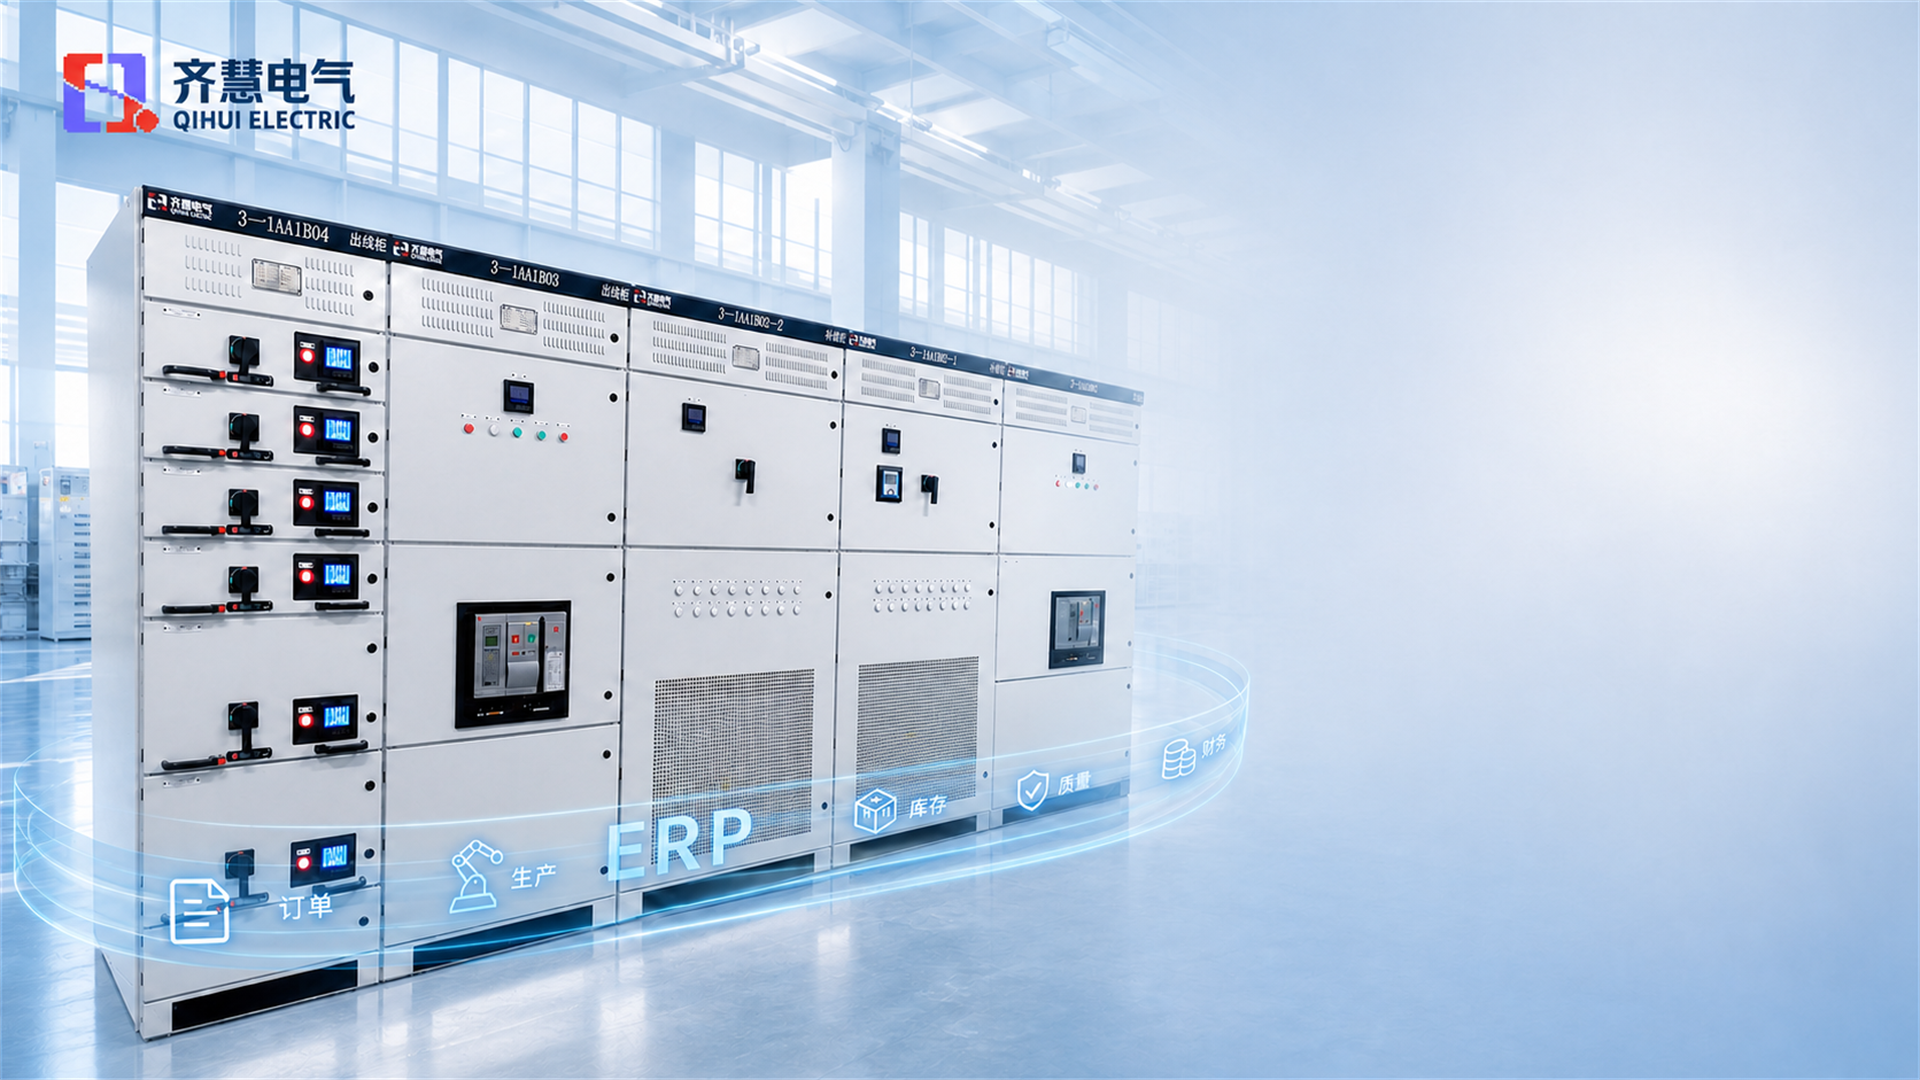
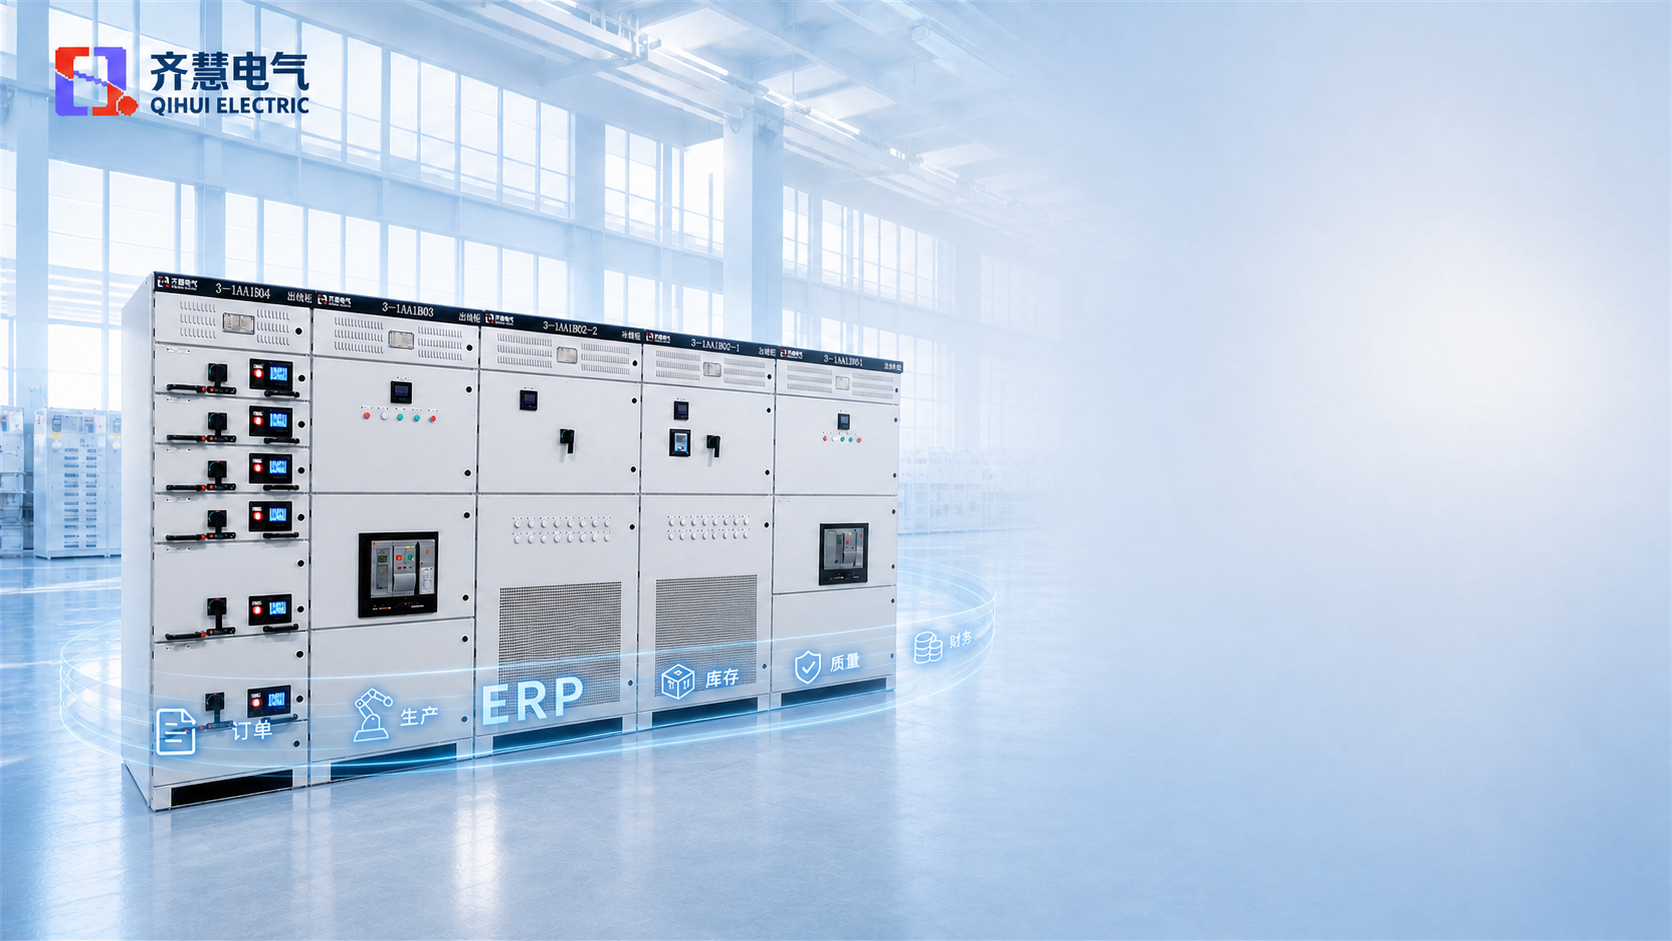
定稿登录页背景与铺满适配

Changed region(s): [[0.0, 0.1541, 0.6531, 1.0], [0.0311, 0.0308, 0.1866, 0.1233]]

diff --git a/apps/web/src/modules/auth/LoginView.spec.ts b/apps/web/src/modules/auth/LoginView.spec.ts
@@ -68,13 +68,14 @@ describe('登录页', () => {
     expect(wrapper.find('[data-test="login-submit"]').exists()).toBe(true)
   })
 
-  it('登录背景完整可见且桌面登录框右对齐并保留安全间距', () => {
+  it('登录背景使用最终原图 cover 铺满且桌面登录框右对齐并保留安全间距', () => {
     const pageRule = getCssRule('.login-page')
     const panelRule = getCssRule('.login-panel')
 
     expect(pageRule).toContain('background-position: left center, center center;')
-    expect(pageRule).toContain('background-size: contain, cover;')
-    expect(pageRule).not.toContain('background-size: cover;')
+    expect(pageRule).toContain('background-size: cover, cover;')
+    expect(pageRule).not.toContain('contain')
+    expect(pageRule).not.toContain('100% 100%')
     expect(panelRule).toContain('justify-self: end;')
     expect(panelRule).toContain('margin-right: clamp(')
   })

diff --git a/apps/web/src/style.css b/apps/web/src/style.css
@@ -737,7 +737,7 @@ samp {
     linear-gradient(120deg, #dbeaf8 0%, #eef6ff 62%, #f8fbff 100%);
   background-position: left center, center center;
   background-repeat: no-repeat, no-repeat;
-  background-size: contain, cover;
+  background-size: cover, cover;
   padding: clamp(24px, 4vw, 64px);
 }
 